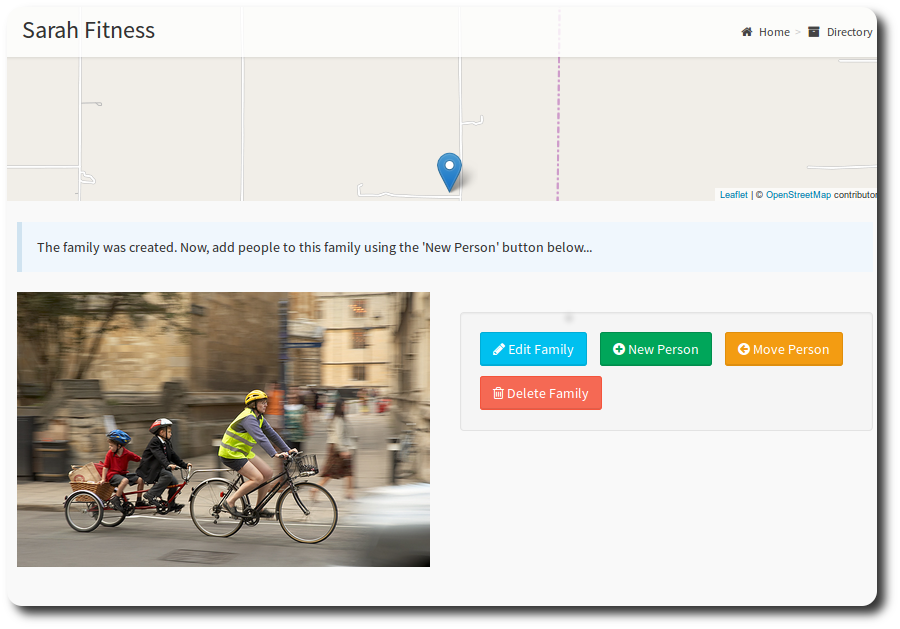
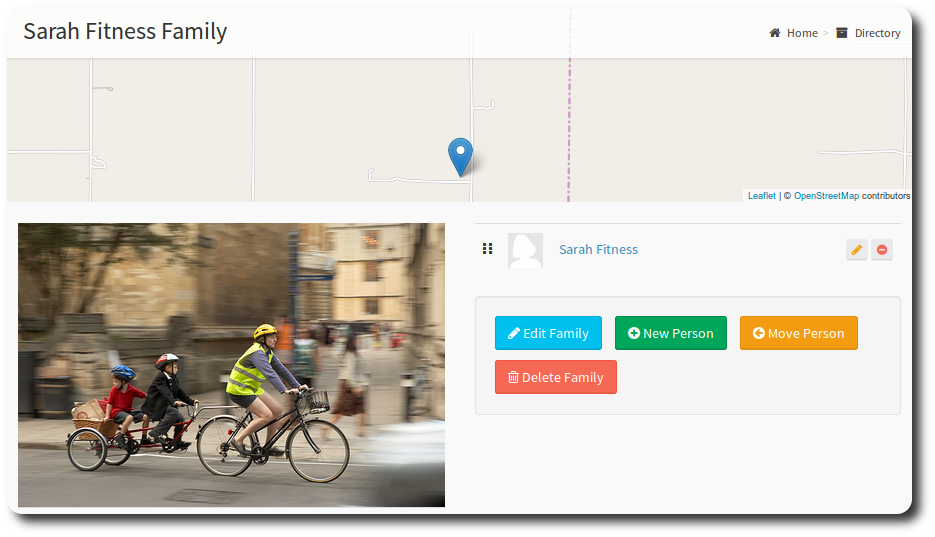
Update Issues #5, #15, #16 & #21

diff --git a/administration/import_&_export.md b/administration/import_&_export.md
@@ -1,6 +1,6 @@
 # Import & Export
 
-OneBody provides a facility to upload and download files of group and people information. You can upload a file of people, and download files of people and groups.
+OneBody provides a facility to import and export files of group and people information. You can import a file of people, and export files of people and groups.
 
 ## Export
 You can download in XML (eXtensible Markup Language) or CSV format. If you're unsure, select CSV.
@@ -8,26 +8,94 @@ You can download in XML (eXtensible Markup Language) or CSV format. If you're un
 From the admin dashboard, select which file you would like to download. That's it!
 
 ## Import
-Importing is particularly useful if you are synchronising data from another system or uploading a file of details for the first time. Import supports CSV only.
-
-> Excel documents can be exported as CSV from the File -> Save As menu. Make sure to omit any header rows.
-
+Importing is particularly useful if you are uploading a file of details for the first time. Ongoing, the import process can be used to synchronise data from another system.
 
 ![Import Settings](../img/admin/import-export-1.png)
 
-Upload your file using the browse dialog.
+Before delving further into the import process, its useful to understand some related concepts.
 
-> **info** For files over 1000 records, use the Update Agent, or upload multiple files.
+#### The Import File
+Import supports CSV only. Excel documents can be exported as CSV from the File => Save As menu.
+
+**Header Row**
+
+Your file should be formatted with a header row and then detail rows underneath. For a full list of available fields , select the hyperlink on the first line of the *Import People* page. This list is built dynamically from the OneBody database, so we've shown an example list here for illustration purposes.
+
+* first_name
+* last_name
+* suffix
+* gender
+* mobile_phone
+* work_phone
+* fax
+* birthday
+* anniversary
+
+In your header row, you should list the fields you want to import, separated by commas, with no spaces, eg:
+
+first_name,last_name,gender,email,birthday
+
+**Detail Rows**
+
+Underneath the header row, list your data. Following the above example:
+"Sue","Importer",Female,sue.importer@importer.com,1985-01-12
+
+So you'll eventually wind up with:
+
+![Import Settings](../img/admin/import-export-3.png)
+
+* If the fields you wish to import contain commas, wrap the text in double quotation marks eg:
+"Last week, we went to the movies".
+* Dates are formatted YYYY-MM-DD.
 
 
-If the **attempt to match existing records by name** check box is selected, OneBody will search the last and first name fields for a match. If one is found the record will not be selected to be imported.
+#### Required File Fields
 
-The **visibility/access** section indicates the defaults the member will be created with. See [looking after people](../administration/looking_after_people.html) for more.
+The minimum required fields to create a person record are first name and last name. We would recommend adding a date of birth if you have it, as this will improve the matching process.
 
-To schedule imports to run regularly (eg. nightly) use the [UpdateAgent](](https://github.com/churchio/onebody-updateagent).
+
+#### Setting Visibility/Access
+
+The **visibility/access** section indicates the defaults the member will be created with. See [looking after people](../administration/looking_after_people.html) for more on the meaning of the checkboxes.
+
+
+## Importing a File - New people
+
+Upload your file using the browse dialog. Choose Visibility/Access options and select Import Data to continue.
 
 ![Import Settings](../img/admin/import-export-2.png)
 
-Select Import Selected People to complete the import process. A confirmation screen will appear confirming the newly imported records.
+ A confirmation screen will appear confirming the newly imported records.
 
-> **info** OneBody will update the existing record if it finds a match on email address.
+
+## Importing a File - Existing People
+
+If you've got existing people in your database, you can configure OneBody to match and update a person's data, rather than create a new record (and therefore, avoid duplicate people records.)
+
+If the **attempt to match existing records by name** check box is selected, OneBody will perform two match attempts:
+
+1. first name, last name and birthday
+2. first name and last name
+
+You can also add additional fields or remove fields that you have previously imported.
+
+In our example for Sue Importer, say we needed to update her email address and add a description. Our file now looks like:
+
+![Modified Import](../img/admin/import-export-4.png)
+
+We'll re-run the same import, but with the  **attempt to match existing records by name** flag selected.
+
+You'll notice that instead of creating new records, we have matched to Sue Importer, and we're going to update her email address and description fields. You can also selectively update details (say select description but not email address).
+
+![Import](../img/admin/import-export-5.png)
+
+> **note** Toggle "show" to see the field detail.
+
+Make your selections and hit "Import Selected People" to complete the process.
+
+The match on name is case insensitive, so "sue importer" would match to our example of "Sue Importer". However, in this scenario OneBody would also update the name to lowercase, so be careful!
+
+> **hint** Schedule imports to run regularly (eg. nightly) using the [UpdateAgent]((https://github.com/churchio/onebody-updateagent).
+
+<p>
+

diff --git a/groups/families.md b/groups/families.md
@@ -11,26 +11,26 @@ A family in the OneBody sense is a household, or all people living at one addres
 * Parents, children and extended family
 
 
+## Looking after Families
 
-## Adding a New Family
+When you [add a new person](../administration/looking_after_people.html#adding-people-manually), you also add a new *family* record.
 
->**Comment** You need to be an Administrator to add a new family.
-
-1. From the Directory Menu, select Add Family.
-2. Fill in the family details:
-
-![New Family](../img/groups/families-1.png)
-
-After saving, you can then add more details for the family:
+To add more detail to a family, navigate to the directory to find the family you are looking for. Click the family name link to access more details for the family:
 
 ![Family Details](../img/groups/families-2.png)
 
 
-You can then add a new person or move an existing person into the family. **Adding a person** to family follows the same process as [adding a person](../administration/looking_after_people.html#adding-people-manually).
+You can then [add a new person](../administration/looking_after_people.html#adding-people-manually), edit family details, or move an existing person into the family.
 
-> <small> Edit Family will take you back to the family details page.</small>
+####Editing a family
 
-To **move a person** into a family, follow these steps:
+You can edit basic details about a family group, to save multiple entry for all the members of your family.
+
+![Editing a Family](../img/groups/families-4.png)
+
+####Move a Person
+
+To move a person into a family, follow these steps:
 1. Select the **Directory** option from the menu.
 2. Locate the family that you'd like to move.
 3. From the families page, select **Move Person**.

diff --git a/people/friends.md b/people/friends.md
@@ -1,0 +1,36 @@
+# Friends
+
+As we said in our welcome, OneBody is all about connection to others in your faith community. OneBody friendships can help build that connecting bridge.
+
+Friends are members of the community that you know and would like to share more of your journey with. To make new friends, lookup the members profile in the [directory](/directories/README.html), and send them a friend request.
+
+In this example, John has searched for Jim in the directory. John would click the **Add to Friends** button to send Jim a friend request. Jim will recieve an email to his OneBody email address asking him to confirm the friendship.
+
+![Add Friends](../img/profile/friends-1.png)
+
+Meanwhile, Jim will be a *pending* friend for John:
+
+![Pending Friends](../img/profile/friends-2.png)
+
+As well as the email, next time Jim accessess OneBody, he'll have a pending friend request on his homepage.
+
+![Friend Requests](../img/profile/friends-3.png)
+
+Hitting the **View Friends** button will take you to the friends page.
+
+![Pending Friend Requests](../img/profile/friends-4.png)
+
+To accept, simply click "Accept". The person will then be added
+to your friends list.
+
+> **info** When you decline a request, that person can't send you another friend request.
+
+To view your friends list, select the **Sharing with People** Link in the *Sharing with friends* box on the homepage.
+
+* Your friends' activity will appear on your timeline, and vice versa.
+* You're automatically friends with anyone in your groups or family.
+
+![Your Friends](../img/profile/friends-5.png)
+
+
+---

diff --git a/getting_started/README.md b/getting_started/README.md
@@ -23,20 +23,15 @@ Hit the Bible Verse icon to share a verse. You'll be prompted to add your verse,
 
 You can also add a comment to the verse, and your friends can comment as well.
 
-### About Friends
-Friends are members of the community that you know and would like to share more of your journey with. To make new friends, lookup the members profile, and send them a friend request. They will recieve an email to confirm your friendship.
-
-Some notes about friends:
-
-* Your friends activity will appear on your timeline, and vice versa.
-* You're automatically friends with anyone in your groups.
-
+### Friends
+Friends are members of the community that you know and would like to share more of your journey with. To make new friends, lookup the members profile, and send them a friend request. They will recieve an email to confirm your friendship
 
 ---
 ### What's next?
 1. Check your [profile](../people/README.html) is complete.
 2. Concerned about privacy? So are we. Set your [privacy](../people/README.html#setting-privacy-options) options to control visibility.
 3. Join a [group](../groups/README.html#joining-a-group)
+4. Make new connections through [friends](../people/friends.html).
 
 ---
 

diff --git a/administration/looking_after_people.md b/administration/looking_after_people.md
@@ -5,7 +5,8 @@
 Unless you have a small congregation, you will probably want to devolve some responsibility for managing people records to others in your church. This chapter provides some help to make this happen.
 
 ### Adding People Manually
-In addition to the generally available fields, the profile supports a number of fields that are designated for adminstrative use.
+
+To add a new person manually, navigate to Directory, New Person. In addition to the generally available fields, the profile supports a number of fields that are designated for adminstrative use.
 
 | Field | Tab |Description |
 | -- | -- | -- |
@@ -41,6 +42,8 @@ Select the person, and then use the green **Undelete selected people** button to
 ![Deleted People](../img/admin/admin-people-8.png)
 
 The Purge button will officially remove the selected person from the database. Select the "Purge family when empty" select box to also delete any empty family records.
+
+Also see related articles: [Families](../groups/families.html).
 
 ### Roles
 

diff --git a/README.md b/README.md
@@ -1,6 +1,7 @@
 # Welcome!
 
-Hi! We're glad you're here reading the user documentation.
+OneBody is a group based, private social network for your church. OneBody helps to faciliate connection in and around your church. This site documents the features and functions you've got to choose from.
+
 
 > <small> Not looking for this? Try [install docs](https://github.com/churchio/onebody/wiki/Installation) or [the wiki](https://github.com/churchio/onebody/wiki).</small>
 

diff --git a/administration/settings.md b/administration/settings.md
@@ -67,6 +67,7 @@ OneBody enables sharing of news, pictures and verses.
 | News by User | Allow users to submit news content |
 | Pictures | Enable Picture Sharing |
 | Verses | Enable Verse Sharing |
+| Max Size of a "Small Group" | People in groups with this many members or fewer are considered in a "small group" together, and can easily share content with one another via the homepage.|
 
 ### Members
 

diff --git a/administration/looking_after_groups.md b/administration/looking_after_groups.md
@@ -64,4 +64,6 @@ If you select a group for the "Parents of" field when editing a group, then memb
 
  > **Danger** The Hide and Delete Group buttons - do what they say :).
 
+You might also want to check out the [Max Size of a Small Group](../administration/settings.html#sharing) field for how activity in this group affects group members homepages.
+
 ---

diff --git a/SUMMARY.md b/SUMMARY.md
@@ -15,6 +15,7 @@
    * [Reporting](administration/reporting.md)
    * [Looking after People](administration/looking_after_people.md)
 * [Profile](people/README.md)
+   * [Friends](people/friends.md)
 * [Groups](groups/README.md)
    * [Creating a Group](groups/creating_a_group.md)
    * [Looking after Groups](administration/looking_after_groups.md)

diff --git a/administration/pages.md b/administration/pages.md
@@ -43,4 +43,4 @@ To show:
 * the Tech Support Email:[[contact|tech_support_email]]
 * the Adult Age:[[system|adult_age]]
 
->**note** all field and tabs must be **lowercase**.
+> **note** all field and tabs must be **lowercase**.
